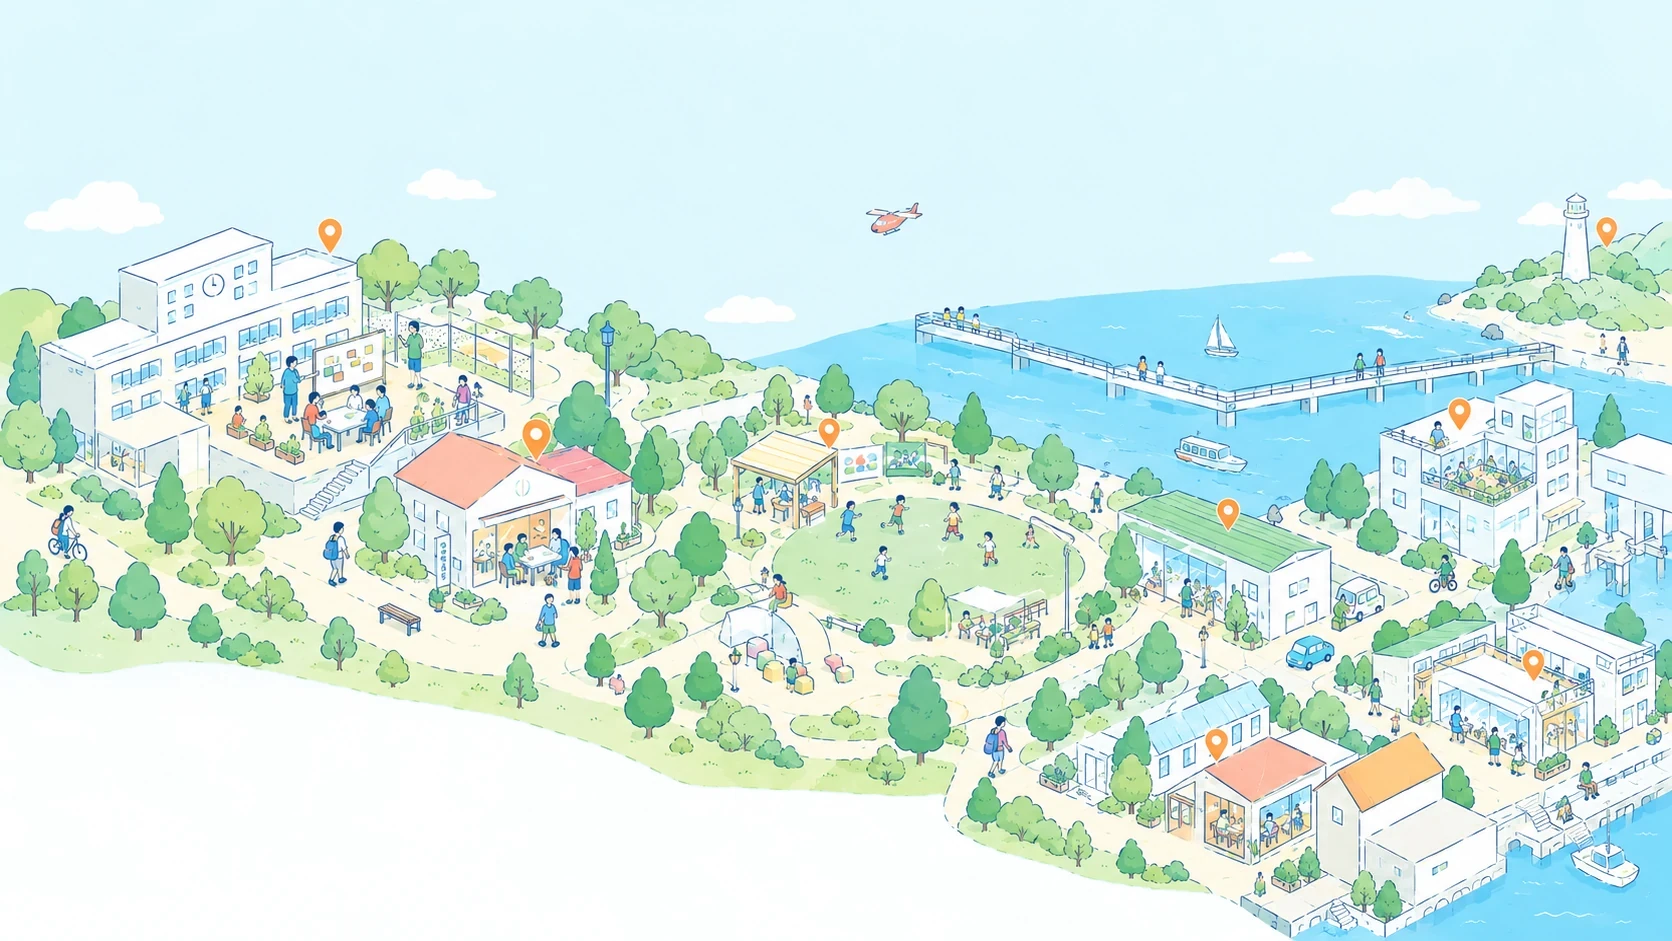
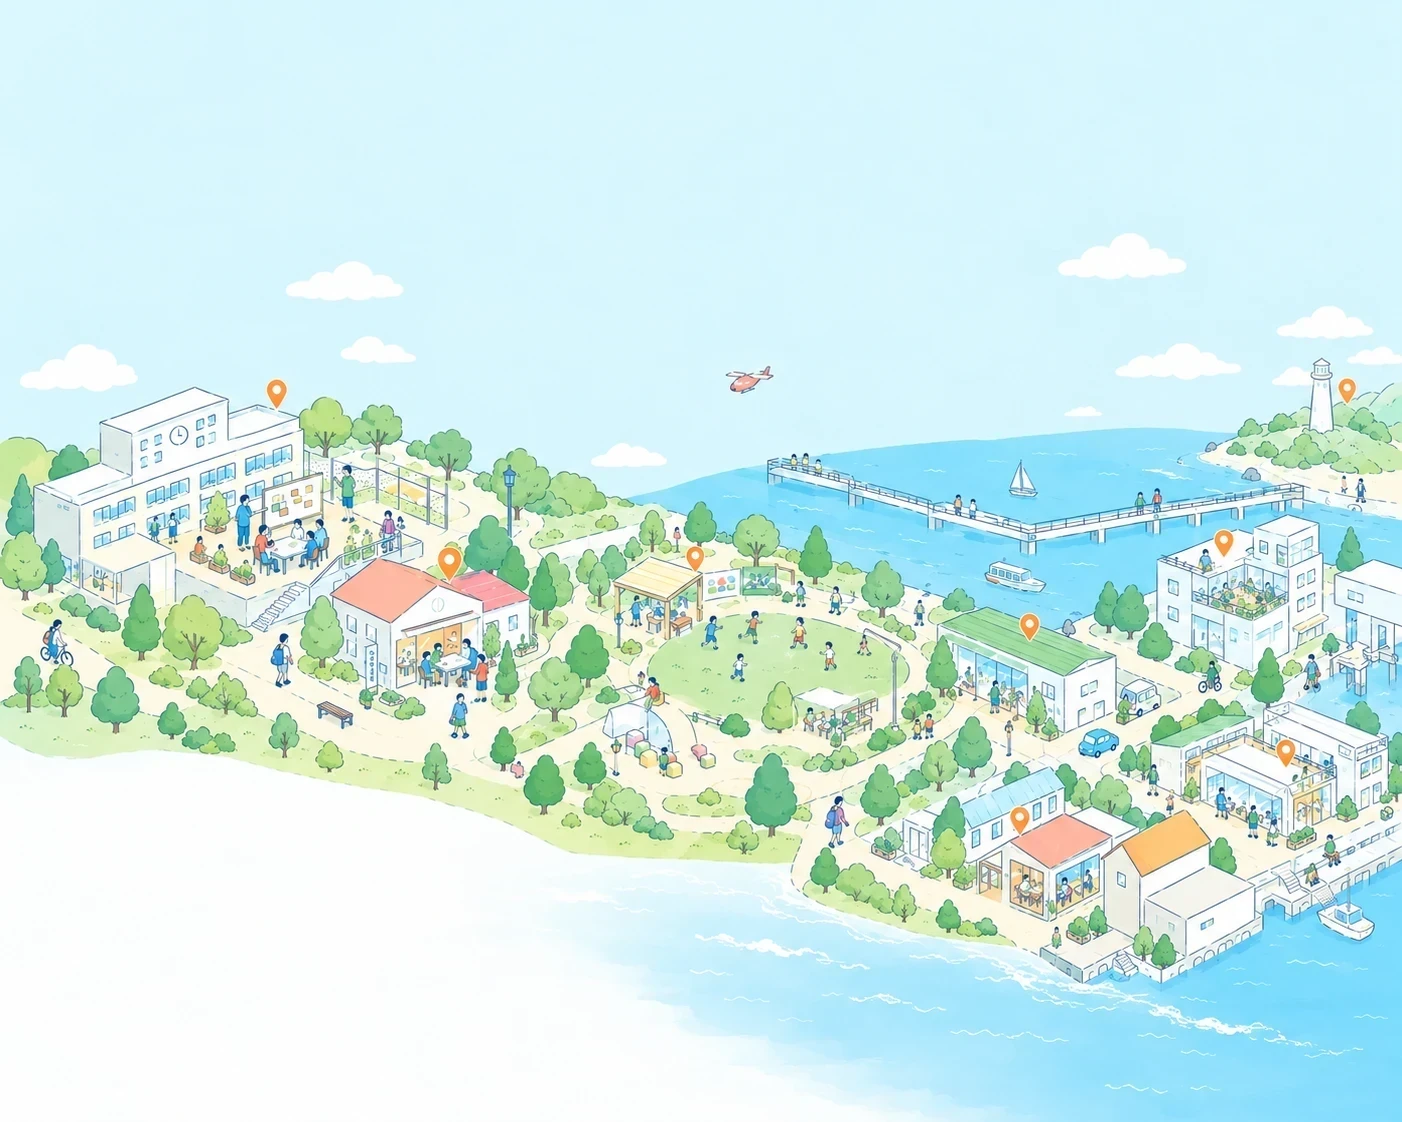
Use the taller hero illustration and drop the repeat below it
The new artwork has the sky above and the water below the town, so it fills
the first view down to the title without the page repeating the same picture
on the message screen; that second copy is gone.

diff --git a/top-c/index.html b/top-c/index.html
@@ -58,13 +58,8 @@ a{color:inherit}
 .hero-ttl .tag{margin:14px 0 0;font-size:clamp(15px,1.5vw,21px);font-weight:700;line-height:1.6;
   letter-spacing:.02em}
 
-/* 2枚目：メッセージは左の白地、絵は右上から続く */
-.hero-next{position:relative;overflow:hidden}
-.hero-art{position:absolute;top:0;right:0;width:min(46%,620px);overflow:hidden;line-height:0;
-  -webkit-mask-image:linear-gradient(90deg,transparent 0,#000 18%);
-  mask-image:linear-gradient(90deg,transparent 0,#000 18%)}
-.hero-art img{width:170%;max-width:none;height:auto;margin-left:-30%}
-.hero-body{position:relative;z-index:2;max-width:1280px;margin:0 auto;padding:96px 40px 104px}
+/* 2枚目：白地にメッセージだけを置く */
+.hero-body{max-width:1280px;margin:0 auto;padding:96px 40px 104px}
 .hero-msg{max-width:min(54%,42em)}
 .hero-msg p{margin:0;font-size:clamp(15px,1.5vw,19px);font-weight:500}
 .hero-msg .sub{margin:18px 0 0;font-size:16px;line-height:2.25;color:var(--ink-soft);font-weight:400}
@@ -79,7 +74,6 @@ a{color:inherit}
   .hero-ttl{position:static;padding:26px 40px 0}
   .hero-ttl h1{font-size:clamp(26px,5.4vw,40px);white-space:normal}
   .hero-ttl .tag{margin-top:10px;font-size:clamp(14px,2.2vw,17px)}
-  .hero-art{display:none}
   .hero-body{padding:30px 40px 60px}
   .hero-msg{max-width:none}
 }
@@ -197,18 +191,14 @@ footer{border-top:1px solid var(--line);margin-top:30px;padding:36px 0 56px;colo
 <section class="hero" id="top">
   <div class="hero-full">
     <picture>
-      <source media="(max-width:700px)" srcset="../assets/hero-map-sp.webp" width="1100" height="619">
-      <img src="../assets/hero-map.webp" width="1672" height="941" fetchpriority="high"
+      <source media="(max-width:700px)" srcset="../assets/hero-map-sp.webp" width="1000" height="625">
+      <img src="../assets/hero-map.webp" width="1402" height="1122" fetchpriority="high"
         alt="学校・公園・川沿いのまちで、子どもたちが遊んだり集まったりしているようすを俯瞰で描いたイラスト">
     </picture>
     <div class="hero-ttl">
       <h1>まちであそぶ、をつくる。</h1>
       <p class="tag">いつものまちに、新しいつながりを。</p>
     </div>
-  </div>
-  <div class="hero-next">
-  <div class="hero-art" aria-hidden="true">
-    <img src="../assets/hero-map.webp" width="1672" height="941" alt="">
   </div>
   <div class="hero-body">
   <div class="hero-msg">
@@ -217,7 +207,6 @@ footer{border-top:1px solid var(--line);margin-top:30px;padding:36px 0 56px;colo
     <p class="sub">MACHI PLAYは、「楽しい」をきっかけに、まちの中に新しいつながりを生み出す取り組みです。子どもも大人も、たまたまそこを通りかかった人も。遊びを通して人と人との間に生まれたつながりが、いつもの風景への新しい気づきや、まちへの愛着を育んでいきます。</p>
     <p class="sub">いつもの道で誰かと出会い、見慣れたまちをもっと好きになる。そんな日常を、遊びの力でつくっていきたいと考えています。</p>
     <a class="go" href="#acts">活動を見る　<span>→</span></a>
-  </div>
   </div>
   </div>
 </section>
